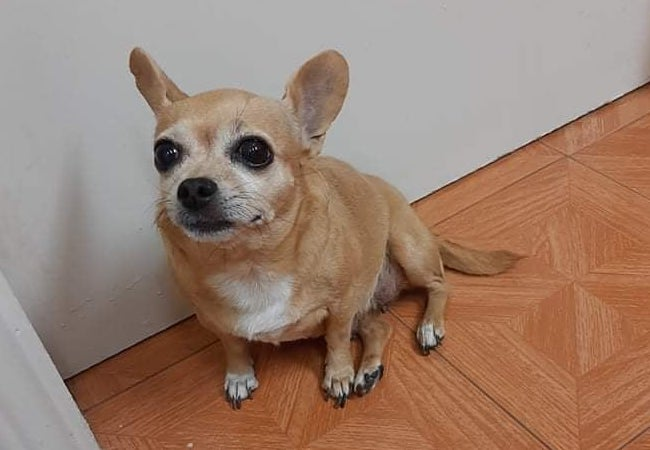
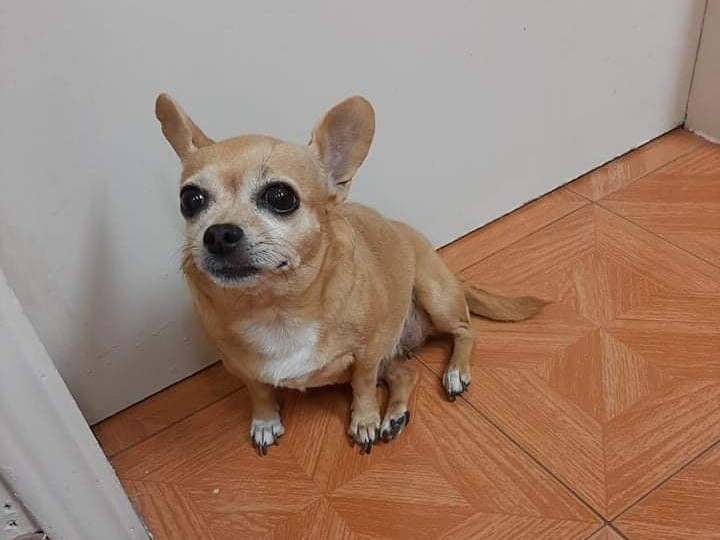
added more Penny photos

diff --git a/src/components/Main/KnowPenny/KnowPenny.jsx b/src/components/Main/KnowPenny/KnowPenny.jsx
@@ -1,16 +1,24 @@
 import React from 'react';
 import penny from '../../../img/penny-4.jpg';
+import penny_2 from '../../../img/penny-5.jpg';
+import penny_3 from '../../../img/penny-6.jpg';
 
 export default function KnowPenny() {
     return (
         <section className="know-penny">
 
             <div className="know-penny__card">
-                <img src={penny} alt="Penny" className="know-penny__card-photo" />
+                <figure className="know-penny__card-frame">
+                    <img src={penny} alt="Penny" className="know-penny__card-photo know-penny__card-photo--1" />
+                    <img src={penny_2} alt="Penny" className="know-penny__card-photo know-penny__card-photo--2" />
+                    <img src={penny_3} alt="Penny" className="know-penny__card-photo know-penny__card-photo--3" />
+                </figure>
+
                 <div className="know-penny__card-text-box">
                     <h2 className="heading-2 text-align-center">Conoce a Penny</h2>
                     <p className="know-penny__card-text">
-                        Lorem ipsum dolor sit amet consectetur adipisicing elit. Obcaecati minus quaerat mollitia atque eaque quasi itaque vero, at distinctio esse, odio magni molestiae laborum nam? Obcaecati dolore ex voluptatem unde!
+                        Se trata de Penny Mancillas, paciente canino de 11 años de edad, con antecedentes de insuficiencia cardiaca tipo congestiva y ca de mama de 2 años de evolución, programada para procedimiento de sniffamiento el dia 7 de septiembre del presente año.
+                        La paciente acude a humano para abrazo y se muestra molesta al notar que el procedimiento fue diferente. Al ser levantada, analiza su entorno y se queda pensativa unos segundos. Fascies en el void. La paciente a pesar de no verse molesta por el sniffamiento, decide agreder al personal medico exclamando "grr". Se cancela procedimiento por falta de cooperación de la paciente. Pronostico reservado a evolucion no exenta de complicaciones.
                     </p>
                 </div>
             </div>

diff --git a/src/sass/layout/_know-penny.scss b/src/sass/layout/_know-penny.scss
@@ -1,23 +1,80 @@
 .know-penny {
     padding: 8rem 10vw;
+
     &__card {
         display: grid;
-        grid-template-columns: 1fr 2fr;
-        gap: 5rem;
+        grid-template-columns: repeat(16, 1fr);
+        place-items: center;
 
-        @include respond(tab-port){
+        @include respond(tab-port) {
             grid-template-columns: none;
             text-align: center;
         }
 
         &-photo {
             width: 100%;
-            justify-self: center;
+            object-fit: cover;
             border-radius: 3px;
+            box-shadow: 0 1rem 2rem rgba(black, 0.2);
+            transition: all 0.2s ease-in;
+
+            @include respond(tab-port) {
+                width: 40%;
+            }
+
+            &--1 {
+                position: relative;
+                top: -2rem;
+                left: 0;
+                z-index: 3;
+            }
+
+            &--2 {
+                right: 14rem;
+                top: 2rem;
+                z-index: 2;
+                position: absolute;
+
+                @include respond(tab-port) {
+                    left: -1rem;
+                    top: 0;
+                }
+            }
+
+            &--3 {
+                left: 40%;
+                top: 6rem;
+                z-index: 1;
+                position: absolute;
+
+                @include respond(tab-port) {
+                    left: 60%;
+                    top: 0;
+                }
+            }
+
+            &:hover {
+                z-index: 4;
+                transform: scale(1.1);
+                box-shadow: 0 1rem 3rem rgba(black, 0.4);
+            }
+        }
+
+        &-frame {
+            grid-column: 2 / span 4;
+            position: relative;
+
+            @include respond(tab-port) {
+                grid-column: 1 / 16;
+            }
         }
 
         &-text {
             font-size: 1.8rem;
+
+            &-box {
+                grid-column: 9 / -1;
+            }
         }
     }
 }

diff --git a/src/css/style.css b/src/css/style.css
@@ -130,8 +130,8 @@ body {
 }
 .know-penny__card {
   display: grid;
-  grid-template-columns: 1fr 2fr;
-  gap: 5rem;
+  grid-template-columns: repeat(16, 1fr);
+  place-items: center;
 }
 @media (max-width: 56.25em) {
   .know-penny__card {
@@ -141,11 +141,65 @@ body {
 }
 .know-penny__card-photo {
   width: 100%;
-  justify-self: center;
+  object-fit: cover;
   border-radius: 3px;
+  box-shadow: 0 1rem 2rem rgba(0, 0, 0, 0.2);
+  transition: all 0.2s ease-in;
+}
+@media (max-width: 56.25em) {
+  .know-penny__card-photo {
+    width: 40%;
+  }
+}
+.know-penny__card-photo--1 {
+  position: relative;
+  top: -2rem;
+  left: 0;
+  z-index: 3;
+}
+.know-penny__card-photo--2 {
+  right: 14rem;
+  top: 2rem;
+  z-index: 2;
+  position: absolute;
+}
+@media (max-width: 56.25em) {
+  .know-penny__card-photo--2 {
+    left: -1rem;
+    top: 0;
+  }
+}
+.know-penny__card-photo--3 {
+  left: 40%;
+  top: 6rem;
+  z-index: 1;
+  position: absolute;
+}
+@media (max-width: 56.25em) {
+  .know-penny__card-photo--3 {
+    left: 60%;
+    top: 0;
+  }
+}
+.know-penny__card-photo:hover {
+  z-index: 4;
+  transform: scale(1.1);
+  box-shadow: 0 1rem 3rem rgba(0, 0, 0, 0.4);
+}
+.know-penny__card-frame {
+  grid-column: 2/span 4;
+  position: relative;
+}
+@media (max-width: 56.25em) {
+  .know-penny__card-frame {
+    grid-column: 1/16;
+  }
 }
 .know-penny__card-text {
   font-size: 1.8rem;
+}
+.know-penny__card-text-box {
+  grid-column: 9/-1;
 }
 
 .epic-pennys {
